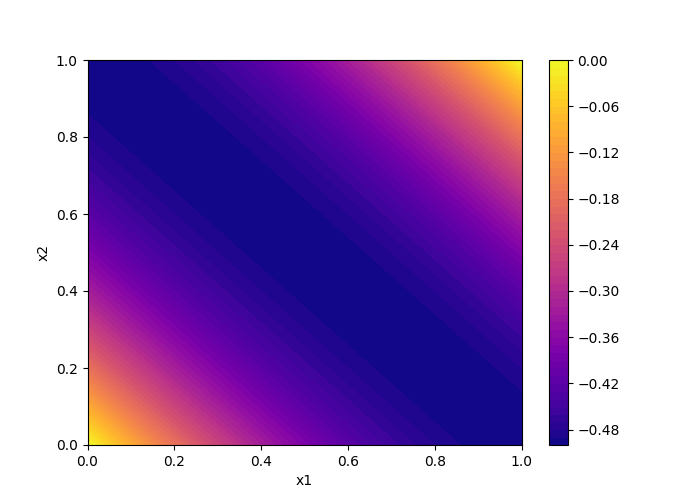
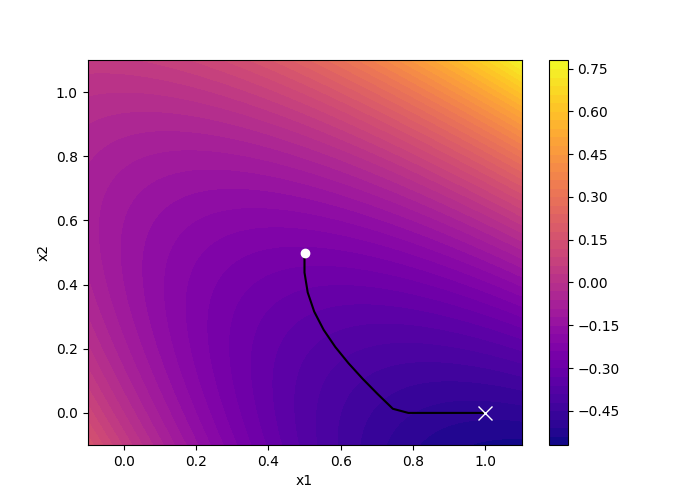
changed the utils function to see beginning and end of algo

diff --git a/visualizations/utils_visuals.py b/visualizations/utils_visuals.py
@@ -1,8 +1,9 @@
 import matplotlib.pyplot as plt
+import matplotlib.patches as patches
 import numpy as np
 
 
-def plot_evolution_objective_function_2d(H, q, x, figure_path):
+def plot_evolution_objective_function_2d(H, q, x, k_max, figure_path):
     """
     Plot the evolution of the objective function for 2d variables at the different steps of the execution of hopfield()
     :param H: (np.array) size (n, n) from the problem formulation - quadratic parameter
@@ -11,17 +12,17 @@ def plot_evolution_objective_function_2d(H, q, x, figure_path):
     :param figure_path: (string) path where to solve the function
     :return: plot a function and save it in the path
     """
-    x_1 = np.linspace(0, 1, num=500).reshape((1, -1))
-    x_2 = np.linspace(0, 1, num=500).reshape((1, -1))
+    x_1 = np.linspace(-0.1, 1.1, num=500).reshape((1, -1))
+    x_2 = np.linspace(-0.1, 1.1, num=500).reshape((1, -1))
     x_meshgrid_1, x_meshgrid_2 = np.meshgrid(x_1, x_2)
-    x_tot = np.concatenate((x_1, x_2), axis=0)
 
     objective = objective_function_2d(x_meshgrid_1, x_meshgrid_2, H, q)
-
     plt.figure(figsize=(7, 5))
     plt.contourf(x_meshgrid_1, x_meshgrid_2, objective, 50, cmap='plasma')
     plt.colorbar()
     plt.plot(x[0, :], x[1, :], 'black')
+    plt.plot(x[0, 0], x[1, 0],  'bo', markersize=6, color='white')
+    plt.plot(x[0, k_max-1], x[1, k_max-1], 'x',  markersize=10, color='white')
     plt.xlabel('x1')
     plt.ylabel('x2')
     plt.savefig(figure_path)

diff --git a/visualizations/test_bertrand.py b/visualizations/test_bertrand.py
@@ -5,12 +5,12 @@ from visualizations.utils_visuals import plot_evolution_objective_function_2d
 
 
 H = np.array([[1, 1], [1, 1]])
-q = np.array([-1, -1])
-k_max = 100
+q = np.array([-1, -0.5])
+k_max = 500
 binary_indicator = np.array([0, 1])
 ub = np.array([1, 1])
 lb = np.array([0, 0])
 
 x, x_h, f_val_hist, step_size = hop.hopfield(H, q, lb, ub, binary_indicator, k_max=k_max)
 
-plot_evolution_objective_function_2d(H, q, x, 'plots/objective_function_2d.png')
+plot_evolution_objective_function_2d(H, q, x, k_max, 'plots/objective_function_2d.png')
